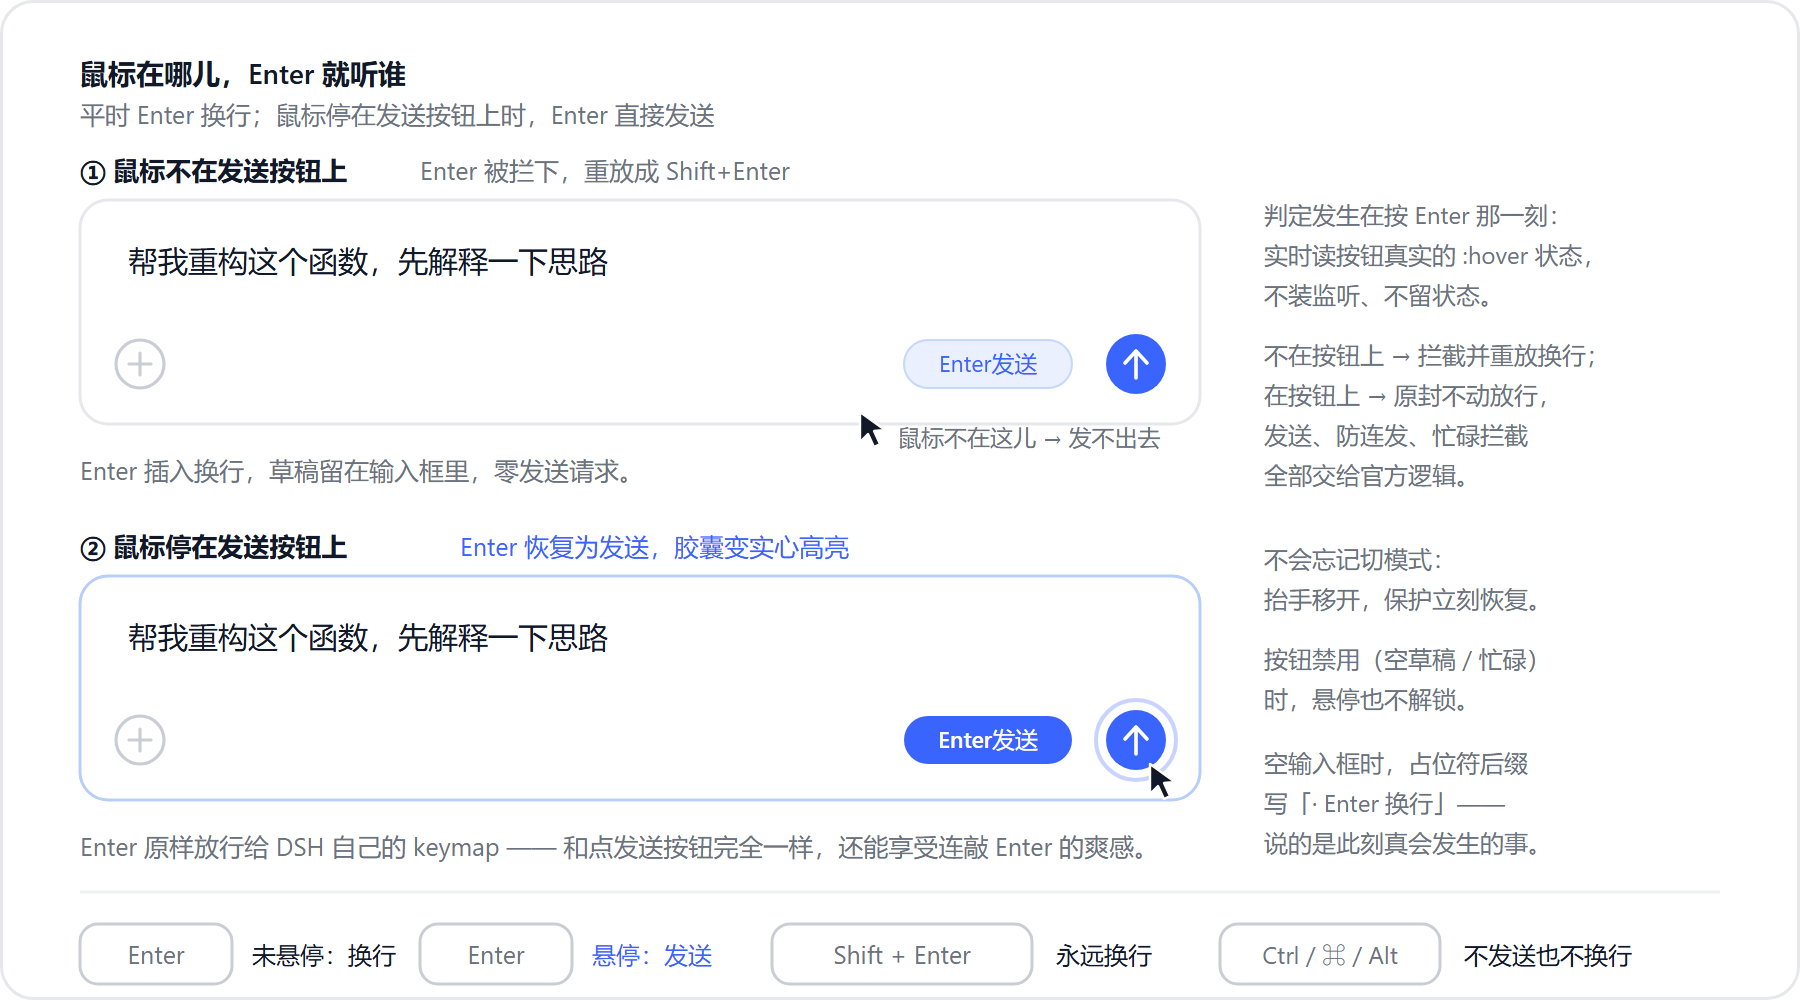
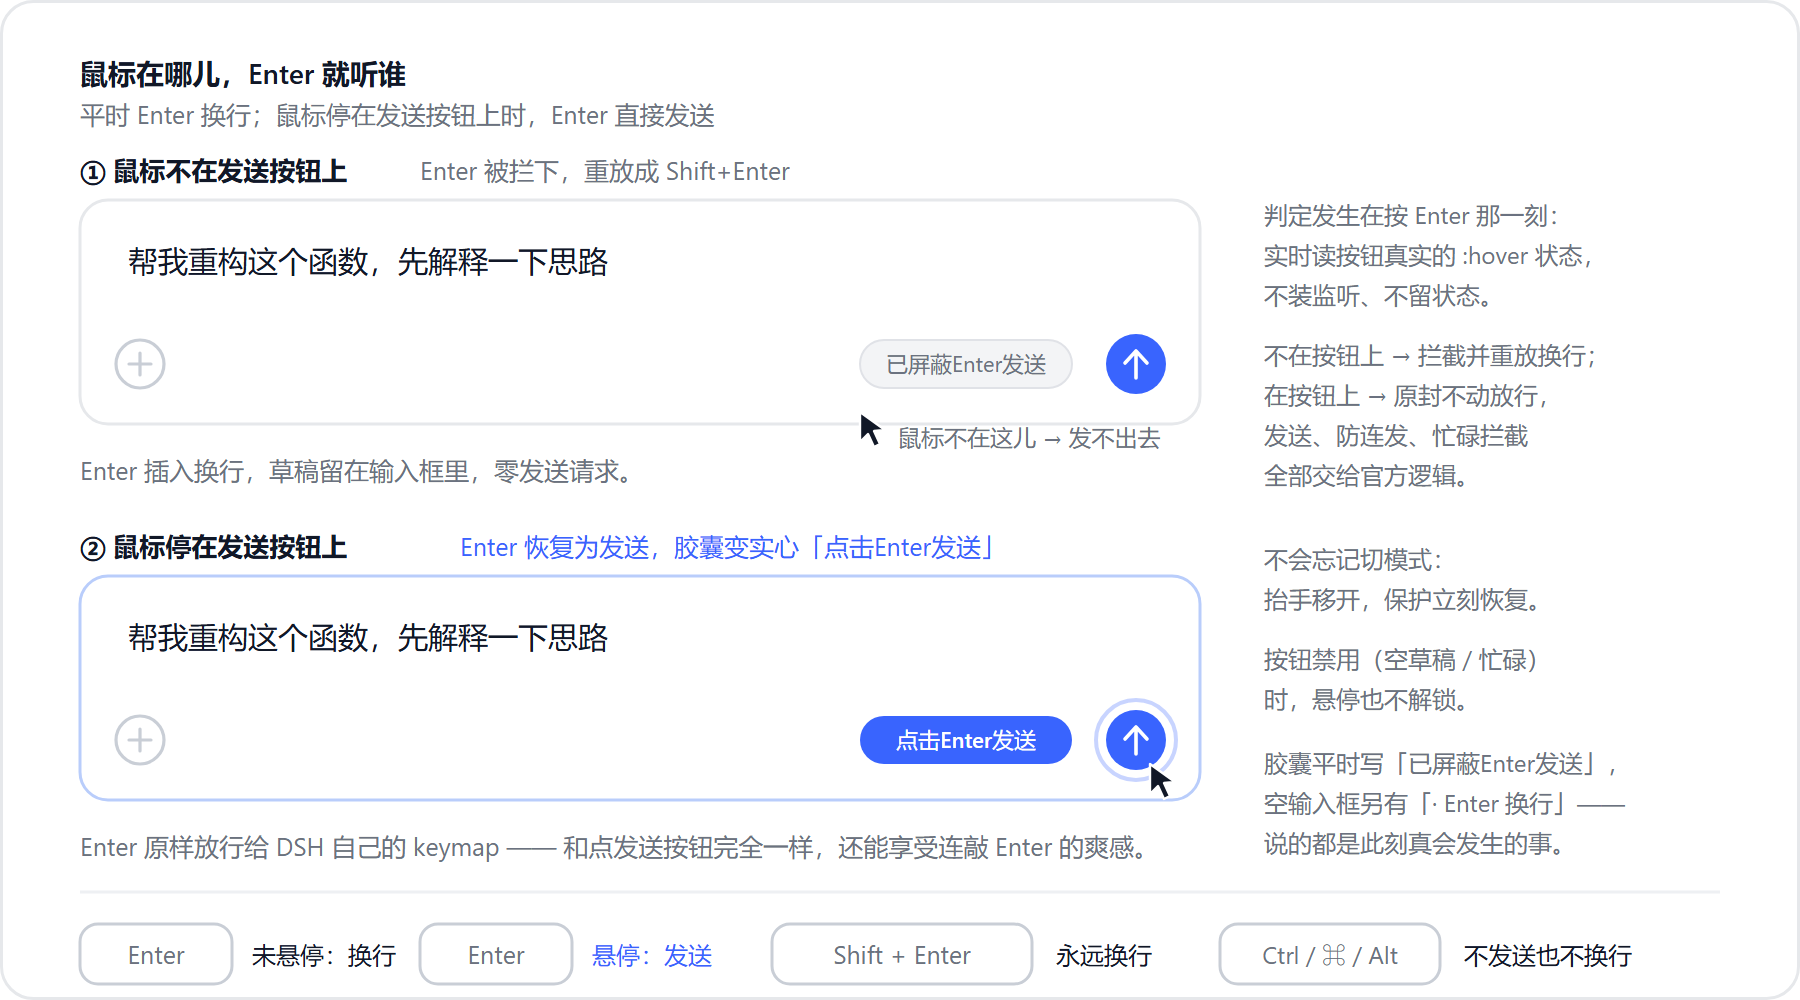
feat: say what Enter does right now instead of what it could do
The pill next to the send button used to read "Enter发送" in both states,
which describes an affordance rather than the current outcome: with the
pointer nowhere near the button, pressing Enter inserts a line break, so
the label promised something that would not happen.

Both wordings now live in the stylesheet as generated content on the same
grid cell:

  - idle  -> "已屏蔽Enter发送" / "Enter is blocked"   (grey text)
  - armed -> "点击Enter发送"   / "Press Enter to send" (solid blue)

Keeping them in `.dsnes-hint::before` / `::after` means the element renders
no text node at all, so the label follows `documentElement.lang` through the
`:lang(zh)` rules without a React re-render -- the shell serves lang="en" and
only switches to zh-CN once the locale module materialises. Stacking both
pseudos in one grid cell sizes the pill to the longer wording, so the pointer
moving on and off the button cannot make it reflow.

Verified: harness 79/79 (new CSS and component assertions), and on rc.3 with
a real pointer: idle shows the grey blocked caption, hovering swaps to the
solid "press Enter to send" pill at the same 108.5px width, Enter then sends,
and a disabled button still refuses to arm.

diff --git a/client.js b/client.js
@@ -21,8 +21,10 @@
  * Two hint surfaces that never fight for space and never lie:
  *   - the ghost suffix on the composer's own placeholder line, which speaks for
  *     the inside of the box and therefore says what Enter does there (new line);
- *   - the pill in the toolbar next to the send button, which advertises the
- *     Enter-to-send affordance and lights up solid the moment it is armed.
+ *   - the pill in the toolbar next to the send button, which names the *current*
+ *     outcome — "Enter is blocked" while Enter really is blocked, and
+ *     "press Enter to send" the moment the pointer arms it — and lights up solid
+ *     in that armed state.
  */
 window.__ModuleLoader__.load({
   id: 'dsh-no-enter-send',
@@ -31,8 +33,12 @@ window.__ModuleLoader__.load({
 
     const { createElement: h } = require('react');
     const STYLE_ID = 'dsh-no-enter-send';
-    const HINT_ZH = 'Enter发送';
-    const HINT_EN = 'Enter to send';
+    /* Idle: what Enter does while the pointer is anywhere but the send button. */
+    const IDLE_ZH = '已屏蔽Enter发送';
+    const IDLE_EN = 'Enter is blocked';
+    /* Armed: the pointer rests on the send button, so Enter sends again. */
+    const ARMED_ZH = '点击Enter发送';
+    const ARMED_EN = 'Press Enter to send';
     const NEWLINE_ZH = 'Enter 换行';
     const NEWLINE_EN = 'Enter = new line';
     const HINT_CLASS = 'dsnes-hint';
@@ -46,6 +52,15 @@ window.__ModuleLoader__.load({
      * aria-busy. CSS module class names are hashed and must not be used.
      */
     const SEND_SELECTOR = '[data-composer-card] button[aria-busy]:not([aria-haspopup])';
+
+    /*
+     * The armed state is decided by CSS, not by JavaScript: as soon as the
+     * pointer rests on an enabled send button, the caption swaps its text and
+     * lights up. `:has()` is evaluated live by the engine, so no listener and no
+     * component state are involved, and a disabled button never arms.
+     */
+    const ARMED_SELECTOR = '[data-composer-card]:has(button[aria-busy]:not([aria-haspopup]):not(:disabled):hover)';
+
 
     const state = { synthetic: false };
 
@@ -61,7 +76,11 @@ window.__ModuleLoader__.load({
     }
 
     function hintText() {
-      return isEnglish() ? HINT_EN : HINT_ZH;
+      return isEnglish() ? IDLE_EN : IDLE_ZH;
+    }
+
+    function armedText() {
+      return isEnglish() ? ARMED_EN : ARMED_ZH;
     }
 
     function newlineText() {
@@ -81,9 +100,14 @@ window.__ModuleLoader__.load({
      * `:lang()` lets the browser re-evaluate it whenever the attribute changes,
      * and keeps every hint surface in the same language at all times.
      *
-     * The armed state is pure CSS (`:has()` over the hovering button) so the pill
-     * can brighten without React re-rendering the slot, and so it matches the
-     * keydown check — which also refuses to arm on a disabled button.
+     * The caption swaps wording with the pointer: idle, it says Enter is blocked
+     * (which is exactly what happens); armed, it says pressing Enter sends. Both
+     * labels are stacked in the same grid cell and the hidden one only drops to
+     * `visibility: hidden`, so the pill is as wide as the longer of the two and
+     * nothing reflows while the pointer travels. The swap itself is pure CSS
+     * (`:has()` over the hovering button), so it needs neither a React
+     * re-render nor a listener, and it matches the keydown check — which also
+     * refuses to arm on a disabled button.
      */
     function cssText() {
       return [
@@ -97,9 +121,9 @@ window.__ModuleLoader__.load({
         '  content: " · ' + quote(NEWLINE_ZH) + '";',
         '}',
         '',
-        '/* Toolbar pill next to the send button: the Enter-to-send affordance. */',
+        '/* Toolbar caption next to the send button: names the current outcome. */',
         '.' + HINT_CLASS + ' {',
-        '  display: inline-flex;',
+        '  display: inline-grid;',
         '  align-items: center;',
         '  font-family: var(--dsw-font-family);',
         '  font-size: 12px;',
@@ -111,22 +135,39 @@ window.__ModuleLoader__.load({
         '  pointer-events: none;',
         '  padding: 0 8px;',
         '  border-radius: 999px;',
-        '  color: var(--dsw-alias-button-info-fill, #3964fe);',
-        '  background: rgba(57, 100, 254, 0.12);',
-        '  background: color-mix(in srgb, var(--dsw-alias-button-info-fill, #3964fe) 14%, transparent);',
+        '  color: var(--dsw-alias-label-caption, #6b7280);',
         '  transition: background-color 120ms ease, color 120ms ease, box-shadow 120ms ease;',
         '}',
+        '/* Both labels share one grid cell, so the pill never resizes on swap. */',
+        '.' + HINT_CLASS + '::before, .' + HINT_CLASS + '::after {',
+        '  grid-area: 1 / 1;',
+        '  transition: opacity 120ms ease;',
+        '}',
+        '',
+        '/* Idle wording: Enter is blocked, and the pill stays quiet and gray. */',
+        '.' + HINT_CLASS + '::before { content: "' + quote(IDLE_EN) + '"; }',
+        '.' + HINT_CLASS + ':lang(zh)::before { content: "' + quote(IDLE_ZH) + '"; }',
+        '',
+        '/* Armed wording: the pointer is on the send button, so Enter sends. */',
+        '.' + HINT_CLASS + '::after {',
+        '  content: "' + quote(ARMED_EN) + '";',
+        '  opacity: 0;',
+        '  visibility: hidden;',
+        '}',
+        '.' + HINT_CLASS + ':lang(zh)::after { content: "' + quote(ARMED_ZH) + '"; }',
         '',
         '/* Armed: the pointer is on an enabled send button, so Enter really sends. */',
-        '[data-composer-card]:has(button[aria-busy]:not([aria-haspopup]):not(:disabled):hover) .' + HINT_CLASS + ' {',
+        ARMED_SELECTOR + ' .' + HINT_CLASS + ' {',
         '  color: var(--dsw-alias-label-on-color, #ffffff);',
         '  background: var(--dsw-alias-button-info-fill, #3964fe);',
         '  box-shadow: 0 0 0 3px rgba(57, 100, 254, 0.26);',
         '  box-shadow: 0 0 0 3px color-mix(in srgb, var(--dsw-alias-button-info-fill, #3964fe) 26%, transparent);',
         '}',
+        ARMED_SELECTOR + ' .' + HINT_CLASS + '::before { opacity: 0; visibility: hidden; }',
+        ARMED_SELECTOR + ' .' + HINT_CLASS + '::after { opacity: 1; visibility: visible; }',
         '',
         '@media (prefers-reduced-motion: no-preference) {',
-        '  [data-composer-card]:has(button[aria-busy]:not([aria-haspopup]):not(:disabled):hover) .' + HINT_CLASS + ' {',
+        '  ' + ARMED_SELECTOR + ' .' + HINT_CLASS + ' {',
         '    animation: dsnes-pop 160ms ease-out;',
         '  }',
         '}',
@@ -300,8 +341,17 @@ window.__ModuleLoader__.load({
       insertLineBreak(input);
     }
 
+    /*
+     * The caption renders no text nodes at all: both labels come from `::before`
+     * / `::after` rules keyed on :lang(), so the wording follows
+     * documentElement.lang live instead of freezing whichever language was
+     * active at load time. The two pseudo-elements stack in one grid cell, so the
+     * pill is already as wide as the longer label and nothing reflows on swap.
+     * aria-hidden keeps it out of the accessibility tree — it is decoration, and
+     * the send button already announces itself.
+     */
     function HintCaption() {
-      return h('span', { className: HINT_CLASS, 'aria-hidden': 'true' }, hintText());
+      return h('span', { className: HINT_CLASS, 'aria-hidden': 'true' });
     }
 
     return {
@@ -329,8 +379,9 @@ window.__ModuleLoader__.load({
 
         if (typeof window !== 'undefined' && window !== null) {
           window.__dshNoEnterSend = {
-            version: 2,
+            version: 3,
             hint: hintText,
+            armed: armedText,
             newline: newlineText,
             hover: hoverSends,
             button: sendButton,

diff --git a/README.md b/README.md
@@ -7,9 +7,9 @@
 
 - **平时 Enter 换行**：不碰鼠标时按 Enter 就是换行，写长 prompt、贴代码、输入法选词都不会误发。
 - **悬停即解锁**：鼠标移到发送按钮上，Enter 立刻恢复成「发送」——想连着敲 Enter 发送时，手不用离开键盘。
-- **提示就在按钮旁**：发送按钮左侧常驻一枚高亮胶囊「Enter发送」，鼠标悬上去时它变成实心蓝底，明确告诉你「现在 Enter 能发了」。输入框为空时，占位符后缀显示「Enter 换行」。
+- **提示会说人话**：发送按钮左侧常驻一枚胶囊，平时写「已屏蔽Enter发送」——它说的是此刻真会发生的事；鼠标移到发送按钮上，文案当场变成「点击Enter发送」并变成实心蓝底，明确告诉你现在按 Enter 就能发。输入框为空时，占位符后缀显示「Enter 换行」。
 
-![行为示意：常驻的「Enter发送」胶囊、悬停后实心高亮、输入框为空时的「Enter 换行」提示](https://raw.githubusercontent.com/pokereva/dsh-no-enter-send/main/docs/preview.png)
+![行为示意：平时胶囊写「已屏蔽Enter发送」，悬停后变成实心高亮的「点击Enter发送」，输入框为空时的「Enter 换行」提示](https://raw.githubusercontent.com/pokereva/dsh-no-enter-send/main/docs/preview.png)
 
 ## 为什么需要它
 
@@ -75,9 +75,9 @@ npm run check   # node --check client.js
 - **悬停解锁 = 什么都不做**。判定「鼠标是否停在发送按钮上」用 `button.matches(':hover')`，在 keydown 那一刻实时计算，没有监听器、没有状态、不会变脏。一旦成立就直接 `return`，把事件**原封不动**放行给 DSH 自己的 keymap——于是 Enter 发送、Shift+Enter 换行、`:repeat` 防连发、忙碌时 `canSubmit()` 拦截全部由官方逻辑负责，插件不需要知道发送是怎么实现的。
 - **Enter 重放成 Shift+Enter**。未悬停时，DSH 的 Enter 处理器对 shift 组合返回 `false`，于是 Lexical 插入换行节点。插件用一个 `synthetic` 标志跳过自己重放的那一次，避免自噬。
 - **按钮靠语义特征识别，不靠类名**。发送按钮没有专属 `data-*`，稳定特征是「卡片内、带 `aria-busy`、不带 `aria-haspopup` 的 `<button>`」：`[data-composer-card] button[aria-busy]:not([aria-haspopup])`。停止按钮没有 `aria-busy`，模型选择器带 `aria-haspopup="menu"`，因此唯一命中。CSS Modules 的哈希类名一个都没用到。
-- **军械态用纯 CSS 联动**。提示胶囊本身在原地；「已武装」的外观由 `[data-composer-card]:has(button[aria-busy]:not([aria-haspopup]):not(:disabled):hover) .dsnes-hint` 驱动，不需要 JS 参与，鼠标移开自动复原。
+- **军械态用纯 CSS 联动**。提示胶囊本身在原地；文案与外观都由 `[data-composer-card]:has(button[aria-busy]:not([aria-haspopup]):not(:disabled):hover) .dsnes-hint` 驱动，不需要 JS 参与，鼠标移开自动复原。
 - **只拦截编辑器区域**。事件目标先做 `closest('[data-composer-input]')`；如果目标是 `body`/`documentElement`（键盘事件没有落点时），退回用 `document.activeElement` 判断。因此对话框、重命名框、按钮上的 Enter 全部保持原生行为。
-- **提示用两处，互不抢位**。输入框为空时，在 DSH 自己的占位符节点上挂 `::after` 显示「 · Enter 换行」——说的是此刻（草稿为空、发不出去）真正会发生的事；发送按钮左侧的常驻胶囊「Enter发送」负责说明另一件事。两处文案都用 `:lang(zh)` 双规则，切换语言时即时跟随。
+- **提示说的是此刻的结果，不是卖点**。按钮左侧的胶囊有两种文案：空闲时「已屏蔽Enter发送」、武装时「点击Enter发送」。两段文字分别写在 `.dsnes-hint::before` / `::after` 的 `content` 里，叠在同一个 grid 单元上、靠 `visibility` 切换，所以胶囊宽度取两者较长的那个，鼠标来回移动时**不会抖动重排**。输入框为空时，另在 DSH 自己的占位符节点上挂 `::after` 显示「 · Enter 换行」——说的是草稿为空、点按钮也发不出去这件事。三处文案都用 `:lang(zh)` 双规则，切换语言时即时跟随。
 - **不碰哈希类名**。只使用稳定的 `data-composer-*` 属性、`:has()` 与 `--dsw-*` 主题变量，Harness 升级重排样式也不会失效。
 
 ## 文件
@@ -119,8 +119,8 @@ rc.3 上的实测结果（CDP 驱动真实指针与键盘）：
 | 悬停发送按钮后按 `Enter` | 发出消息（`POST /api/session/prompt`），输入框清空 |
 | 悬停时按 `Shift+Enter` | 仍插入换行，零网络请求 |
 | 移开鼠标后按 `Enter` | 恢复为换行，零网络请求 |
-| 提示胶囊 | 平时淡蓝底蓝字，悬停变实心蓝底白字，移开自动复原 |
-| 语言 | `<html lang="zh-CN">` 显示「Enter发送」，`en` 显示「Enter to send」 |
+| 提示胶囊 | 平时灰字「已屏蔽Enter发送」，悬停变成实心蓝底白字「点击Enter发送」，移开自动复原 |
+| 语言 | `<html lang="zh-CN">` 显示「已屏蔽Enter发送」/「点击Enter发送」，`en` 显示「Enter is blocked」/「Press Enter to send」 |
 
 不依赖哈希类名，也不依赖 composer 的内部实现，因此小版本升级通常无需改动。
 
